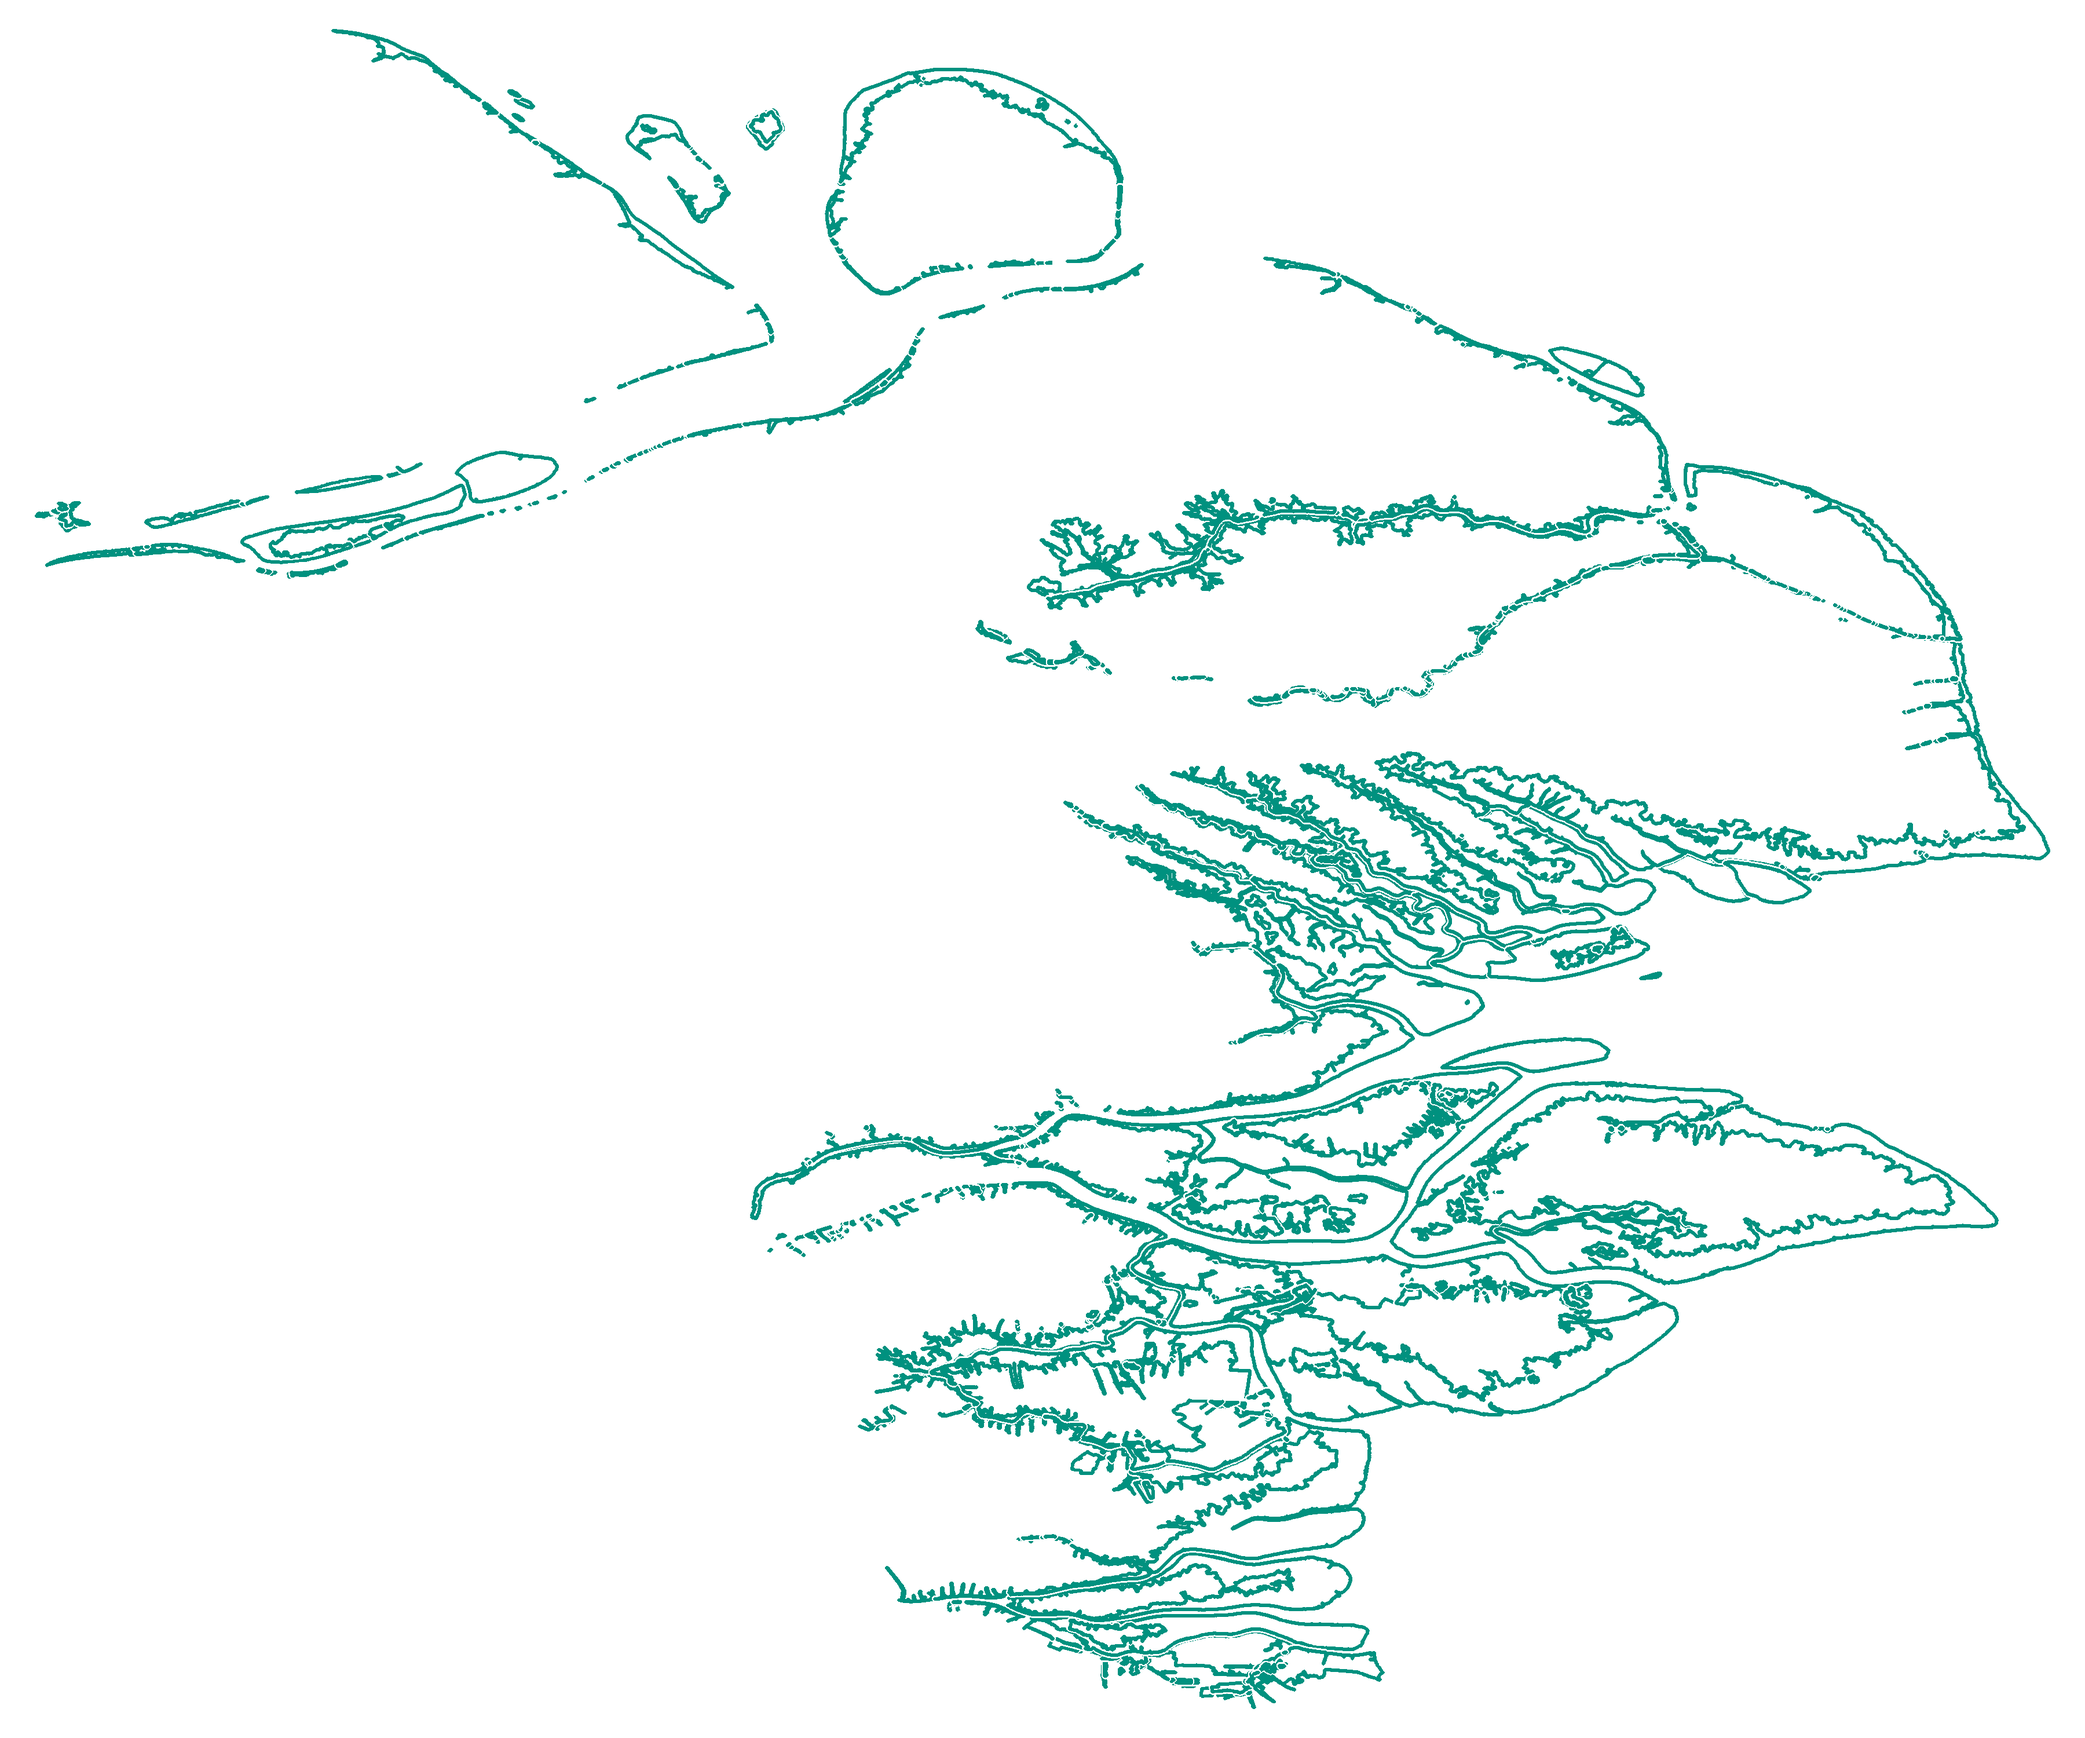
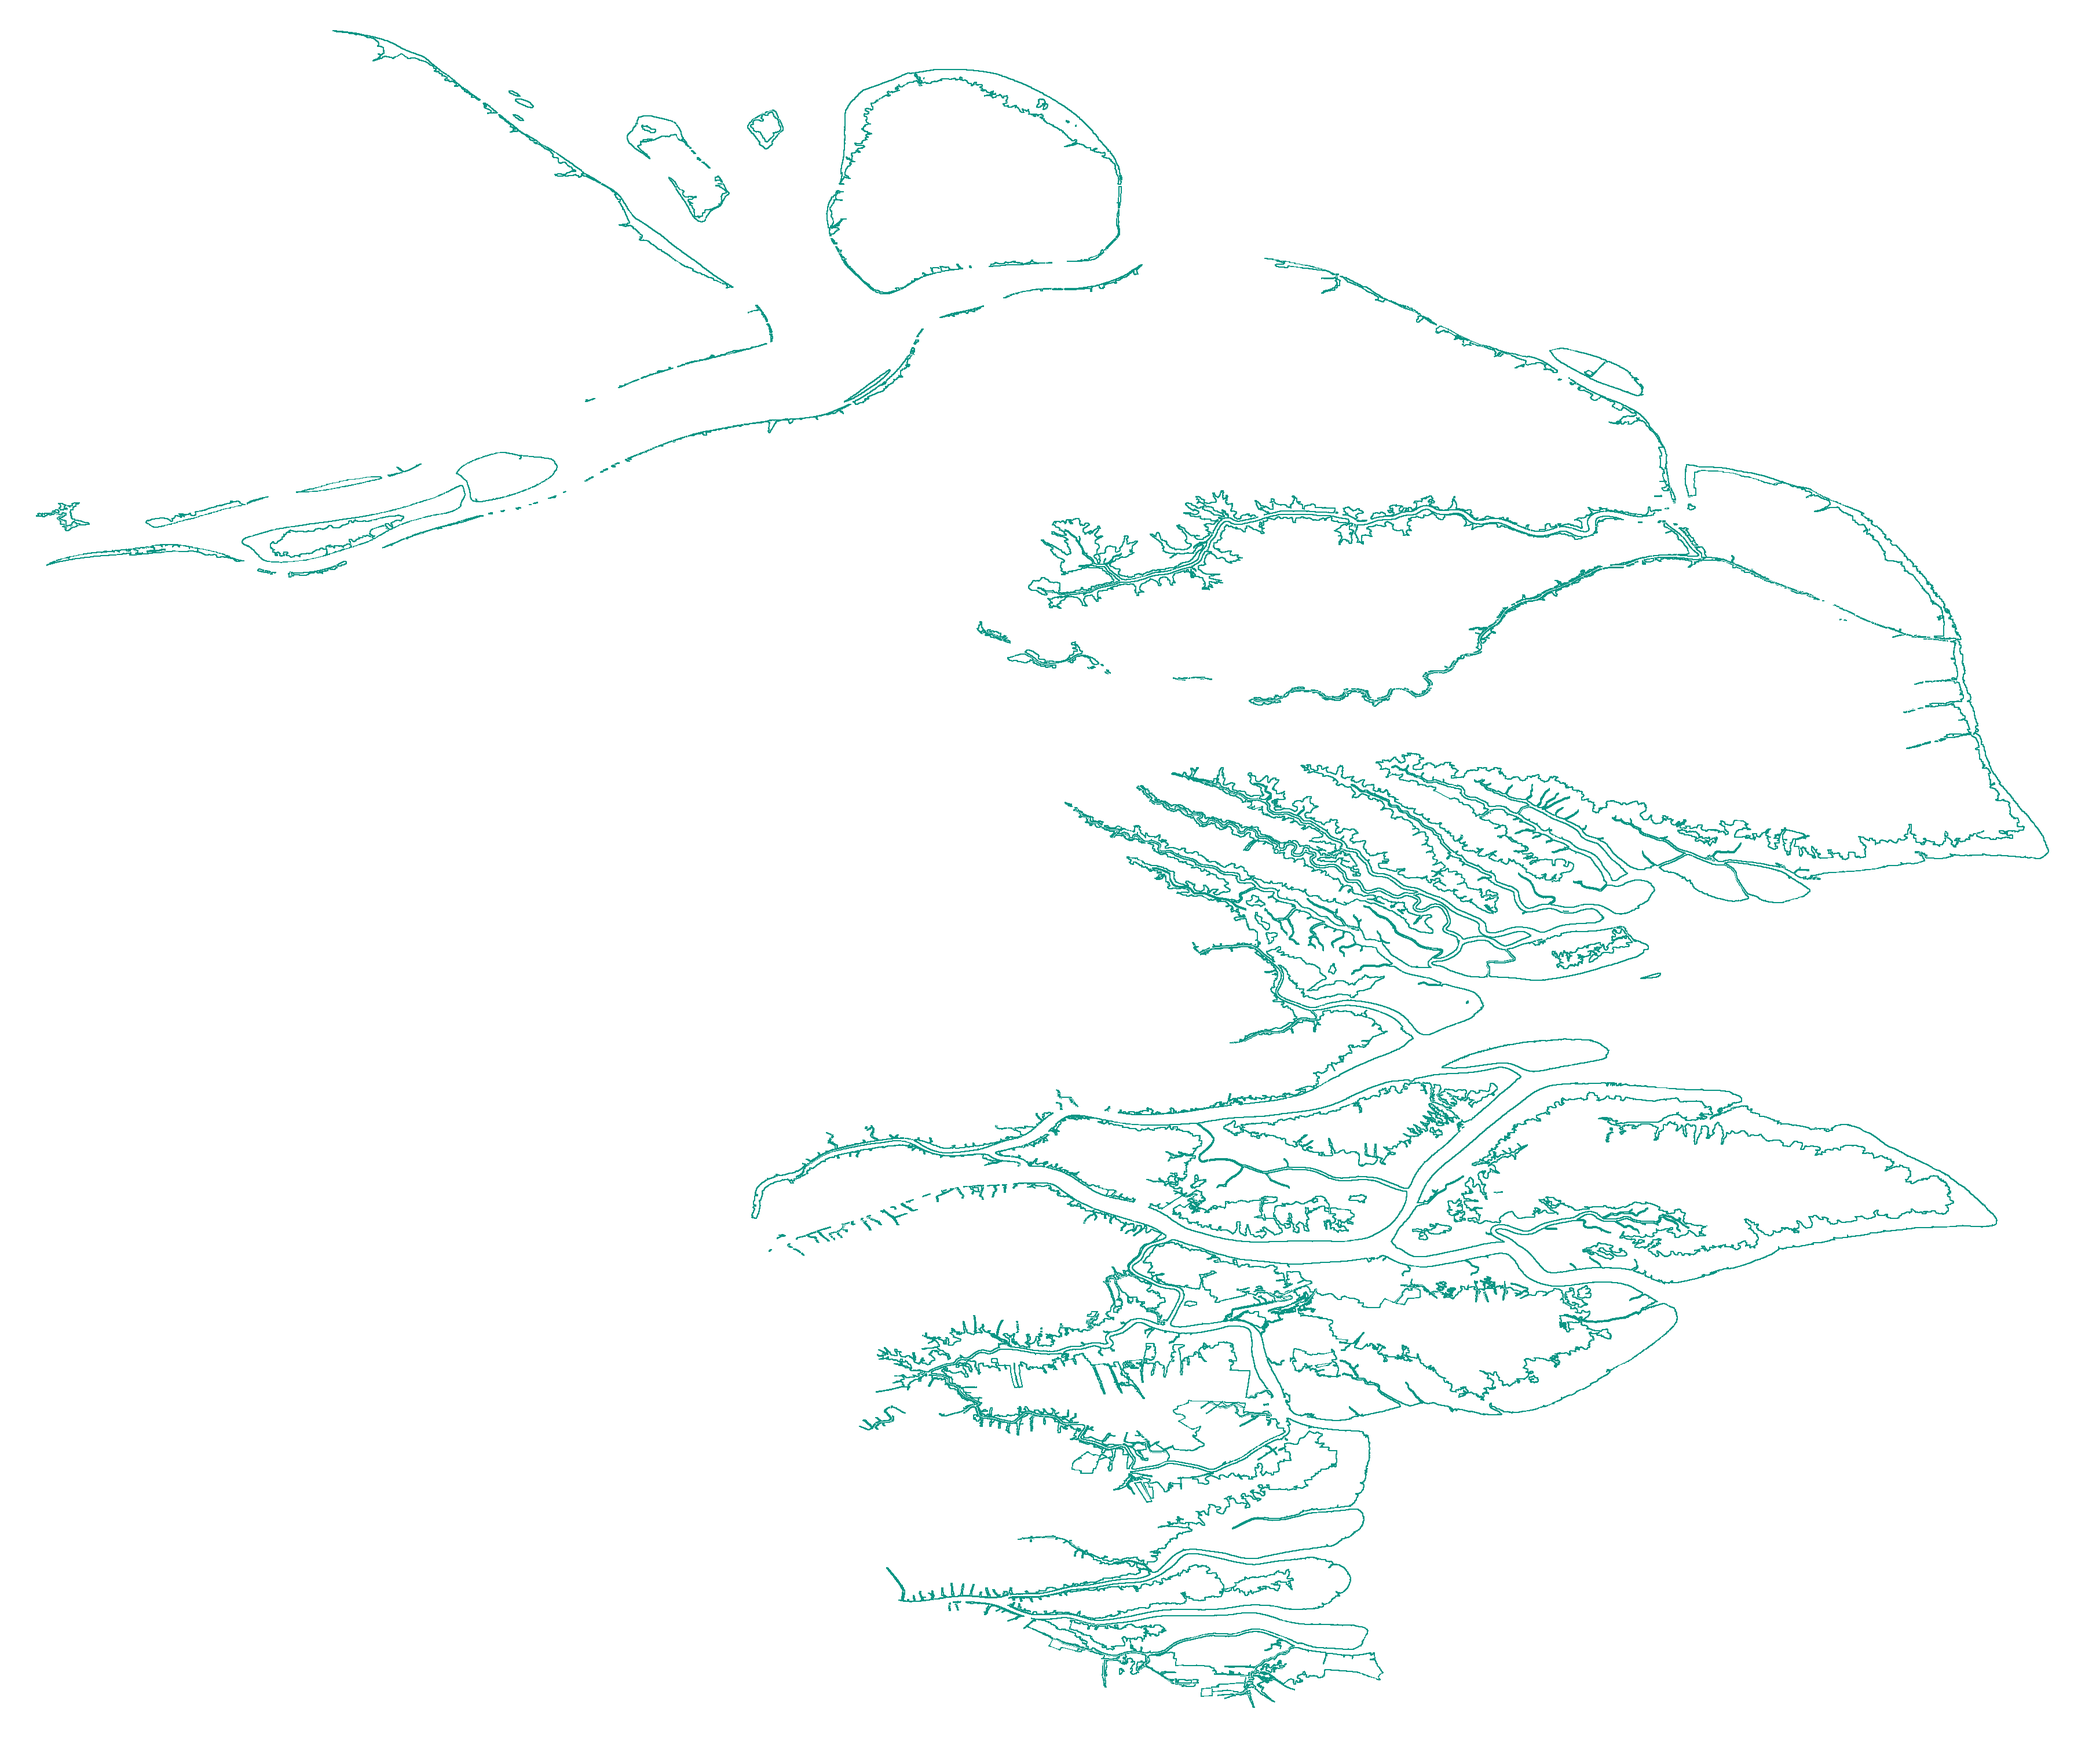
Thin KLM boundary display

diff --git a/js/mangrove-landscape.js b/js/mangrove-landscape.js
@@ -83,7 +83,7 @@
         if(item.visible)layer.addTo(state.map);
       });
       const boundaryConfig=state.data.boundary_layer||{};
-      const boundaryImages=(boundaryConfig.images||[{path:state.data.image.path,bounds}]).map(image=>L.imageOverlay(`${image.path}?v=20260827-klmboundary1`,image.bounds||bounds,{opacity:1,interactive:false,pane:'klmBoundaryPane'}));
+      const boundaryImages=(boundaryConfig.images||[{path:state.data.image.path,bounds}]).map(image=>L.imageOverlay(`${image.path}?v=20260827-klmboundary2`,image.bounds||bounds,{opacity:1,interactive:false,pane:'klmBoundaryPane'}));
       const boundaryLayer=L.layerGroup(boundaryImages).addTo(state.map);
       overlays[boundaryConfig.label||'Batas KLM sumber']=boundaryLayer;
       overlays['Label tempat']=placeLabels;

diff --git a/css/mangrove-klm.css b/css/mangrove-klm.css
@@ -13,7 +13,7 @@
 .klm-map-legend>b{margin-bottom:2px;color:#163f39;font-size:8px;letter-spacing:.08em}
 .klm-map-legend span{display:flex;gap:7px;align-items:center;color:#365c57;font-size:9px;font-weight:700}
 .klm-map-legend i{width:9px;height:9px;border-radius:3px}
-.klm-map-legend .boundary-key i{width:18px;height:0;border-top:4px solid #00917f;border-radius:0;box-shadow:0 -1px 0 #fff,0 1px 0 #fff}
+.klm-map-legend .boundary-key i{width:18px;height:0;border-top:2px solid #00917f;border-radius:0;box-shadow:0 -1px 0 #fff}
 .klm-map-legend small{margin-top:2px;color:#607a75;font-size:8px;line-height:1.35}
 .klm-detail{padding:30px;background:linear-gradient(180deg,#073f3b,#0a6259);color:#fff}
 .klm-detail .eyebrow{color:#9bdfd1}

diff --git a/scripts/build_mangrove_klm_public.py b/scripts/build_mangrove_klm_public.py
@@ -270,8 +270,8 @@ def render_boundary_layer(geometry, path: Path, projected_bounds, size):
         for ring in rings:
             points = pixel_ring(ring.coords, projected_bounds, size)
             if len(points) >= 4:
-                draw.line(points, fill=(255, 255, 255, 245), width=11, joint="curve")
-                draw.line(points, fill=(0, 145, 127, 255), width=6, joint="curve")
+                draw.line(points, fill=(255, 255, 255, 210), width=4, joint="curve")
+                draw.line(points, fill=(0, 145, 127, 245), width=2, joint="curve")
     path.parent.mkdir(parents=True, exist_ok=True)
     canvas.save(path, optimize=True)
 
